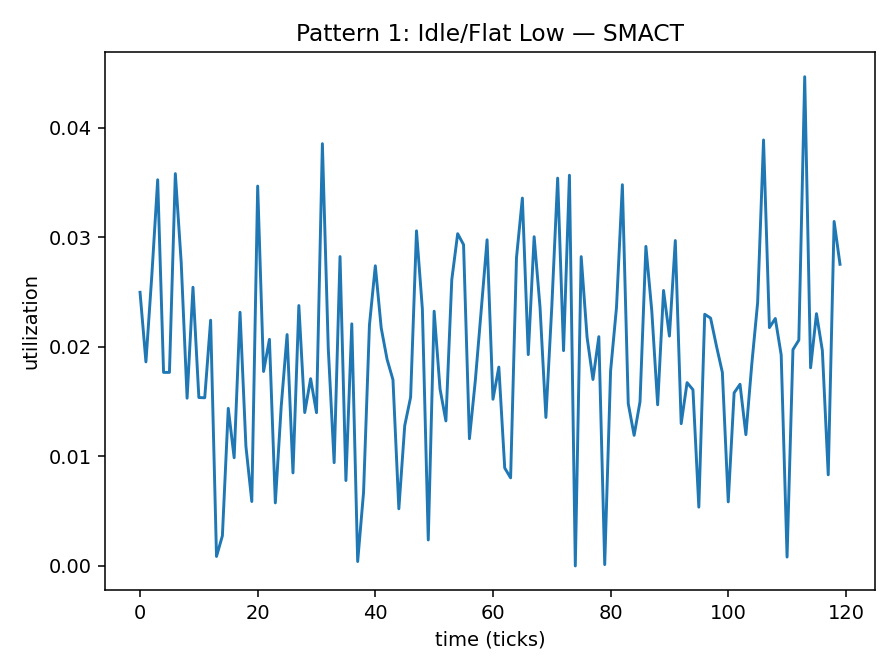
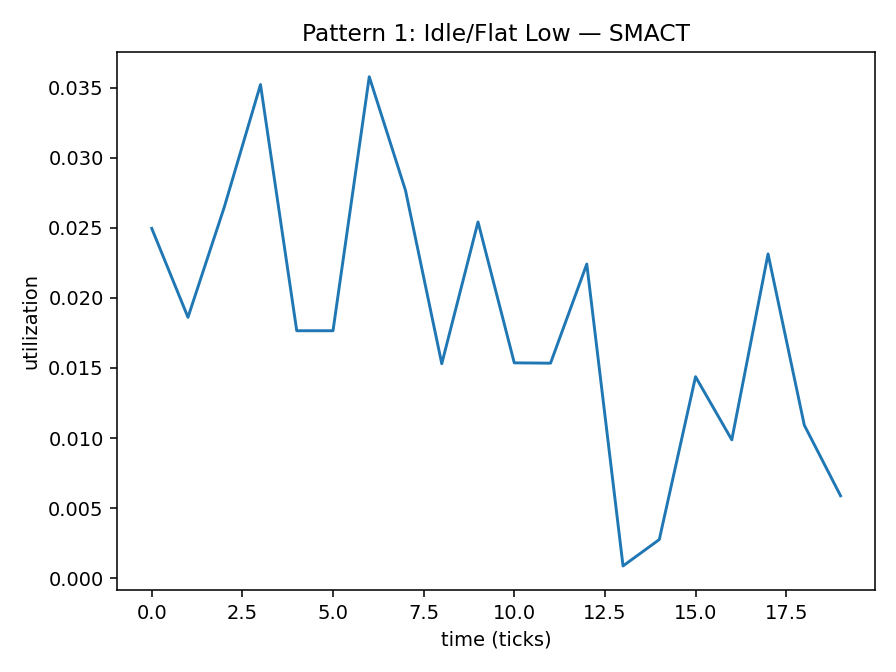
first pattern looked into with different statistical metrics

diff --git a/01-idle_OR_flat_low/main.py b/01-idle_OR_flat_low/main.py
@@ -1,9 +1,10 @@
-# pattern1_idle_flatlow.py
-import argparse, os, numpy as np, pandas as pd, matplotlib.pyplot as plt
+#!/usr/bin/env python3
+import os, argparse, numpy as np, pandas as pd, matplotlib.pyplot as plt
+import yaml
 
-def ema_last(x, alpha=0.1):
-    s = pd.Series(x).ewm(alpha=alpha, adjust=False).mean()
-    return float(s.iloc[-1])
+# ----------------- helpers -----------------
+def ema_last(x, alpha):
+    return float(pd.Series(x).ewm(alpha=alpha, adjust=False).mean().iloc[-1])
 
 def cv(x):
     x = np.asarray(x, dtype=float); m = x.mean()
@@ -13,90 +14,155 @@ def mad(x):
     x = np.asarray(x, dtype=float); med = np.median(x)
     return float(np.median(np.abs(x - med)))
 
-def stats(x, alpha):
-    x = np.asarray(x, dtype=float)
+def pctl(x, q):
+    return float(np.quantile(np.asarray(x, dtype=float), q))
+
+def lin_slope(x):
+    y = np.asarray(x, dtype=float); t = np.arange(len(y), dtype=float)
+    tc = t - t.mean(); denom = float((tc**2).sum())
+    if denom == 0.0: return 0.0
+    return float((tc * (y - y.mean())).sum() / denom)
+
+def trend_flag(x, thresh):
+    return 1 if abs(lin_slope(x)) > float(thresh) else 0
+
+def stats_series(x, alpha, slope_thresh):
     return {
-        "mean": x.mean(),
-        "median": np.median(x),
-        "p95": np.quantile(x, 0.95),
-        "p99": np.quantile(x, 0.99),
-        "ema_last": ema_last(x, alpha=alpha),
+        "mean": float(np.mean(x)),
+        "median": float(np.median(x)),
+        "p95": pctl(x, 0.95),
+        "p99": pctl(x, 0.99),
+        "ema_last": ema_last(x, alpha),
         "cv": cv(x),
         "mad": mad(x),
+        "slope": lin_slope(x),
+        "trend_flag": trend_flag(x, slope_thresh),
     }
+
+def risk_per_metric(stats, wT, wE, wB, wC):
+    T = stats["p95"]
+    E = stats["ema_last"]
+    B = stats["cv"]
+    C = float(bool(stats["trend_flag"]))
+    return {"T": T, "E": E, "B": B, "C": C, "RISK": wT*T + wE*E + wB*B + wC*C}
 
 def plot_series(t, y, title, outfile):
     plt.figure()
     plt.plot(t, y)
     plt.title(title)
-    plt.xlabel("time (ticks)")
-    plt.ylabel("utilization")
-    plt.tight_layout()
-    plt.savefig(outfile, dpi=140)
-    plt.close()
+    plt.xlabel("time (ticks)"); plt.ylabel("utilization")
+    plt.tight_layout(); plt.savefig(outfile, dpi=140); plt.close()
 
-def write_readme(path, params, smact_stats, smocc_stats, drama_stats, img_paths):
-    def row(d):
-        return f"{d['mean']:.4f} | {d['median']:.4f} | {d['p95']:.4f} | {d['p99']:.4f} | {d['ema_last']:.4f} | {d['cv']:.4f} | {d['mad']:.4f}"
+def _row(d, cols): return " | ".join(f"{d[c]:.4f}" for c in cols)
+
+def build_md(params, sS, sO, sD, rS, rO, rD, imgs):
+    cols = ["mean","median","p95","p99","ema_last","cv","mad","slope"]
     md = f"""# Pattern 1 — Idle / Flat Low
 
-**Config:** `N={params['N']}`, `NOISE={params['NOISE']}`, `ALPHA={params['ALPHA']}`
+**Config:** `N={params['N']}`, `NOISE={params['NOISE']}`, `ALPHA={params['ALPHA']:.6f}`  
+(ALPHA auto-derived = `{params['ALPHA_AUTO']}`; rule: α ≈ 2/(N+1))
 
 ## Plots
-![SMACT]({os.path.basename(img_paths['smact'])})
-![SMOCC]({os.path.basename(img_paths['smocc'])})
-![DRAMA]({os.path.basename(img_paths['drama'])})
+![SMACT]({os.path.basename(imgs['smact'])})
+![SMOCC]({os.path.basename(imgs['smocc'])})
+![DRAMA]({os.path.basename(imgs['drama'])})
 
-## Window Statistics
-Metric | mean | median | p95 | p99 | EMA_last | CV | MAD
----|---:|---:|---:|---:|---:|---:|---:
-SMACT | {row(smact_stats)}
-SMOCC | {row(smocc_stats)}
-DRAMA | {row(drama_stats)}
+## Window Statistics (per metric)
+Metric | mean | median | p95 | p99 | EMA_last | CV | MAD | slope
+---|---:|---:|---:|---:|---:|---:|---:|---:
+SMACT | {_row(sS, cols)}
+SMOCC | {_row(sO, cols)}
+DRAMA | {_row(sD, cols)}
+
+Per-metric trend flags: SMACT={sS['trend_flag']} • SMOCC={sO['trend_flag']} • DRAMA={sD['trend_flag']}
+
+## Per-Metric Risk
+Weights: wT={params['wT']}, wE={params['wE']}, wB={params['wB']}, wC={params['wC']}
+
+Metric | T (p95) | E (EMA) | B (CV) | C (trend) | RISK
+---|---:|---:|---:|---:|---:
+SMACT | {rS['T']:.4f} | {rS['E']:.4f} | {rS['B']:.4f} | {rS['C']:.1f} | {rS['RISK']:.4f}
+SMOCC | {rO['T']:.4f} | {rO['E']:.4f} | {rO['B']:.4f} | {rO['C']:.1f} | {rO['RISK']:.4f}
+DRAMA | {rD['T']:.4f} | {rD['E']:.4f} | {rD['B']:.4f} | {rD['C']:.1f} | {rD['RISK']:.4f}
 """
-    with open(path, "w", encoding="utf-8") as f:
-        f.write(md)
+    return md
 
+def write_readme(path, content, mode="write"):
+    if mode == "append" and os.path.exists(path):
+        with open(path, "a", encoding="utf-8") as f: f.write("\n\n" + content)
+    else:
+        with open(path, "w", encoding="utf-8") as f: f.write(content)
+
+# ----------------- main -----------------
 def main():
     ap = argparse.ArgumentParser()
-    ap.add_argument("--N", type=int, default=120, help="samples in window")
-    ap.add_argument("--noise", type=float, default=0.01, help="noise std around near-zero")
-    ap.add_argument("--alpha", type=float, default=0.1, help="EMA smoothing factor")
-    ap.add_argument("--seed", type=int, default=42)
-    ap.add_argument("--outdir", type=str, default=".", help="output directory")
+    ap.add_argument("--config", type=str, default="config.yaml")
     args = ap.parse_args()
 
-    np.random.seed(args.seed)
-    os.makedirs(args.outdir, exist_ok=True)
+    with open(args.config, "r", encoding="utf-8") as f:
+        cfg = yaml.safe_load(f)
 
-    t = np.arange(args.N)
-    smact = np.clip(np.random.normal(loc=0.02, scale=args.noise, size=args.N), 0, 1)
-    smocc = np.clip(np.random.normal(loc=0.01, scale=args.noise, size=args.N), 0, 1)
-    drama = np.clip(np.random.normal(loc=0.015, scale=args.noise, size=args.N), 0, 1)
+    # config
+    N = int(cfg.get("N", 120))
+    noise = float(cfg.get("noise", 0.01))
+    seed = int(cfg.get("seed", 42))
 
-    smact_s = stats(smact, args.alpha)
-    smocc_s = stats(smocc, args.alpha)
-    drama_s = stats(drama, args.alpha)
+    alpha_mode = str(cfg.get("alpha_mode", "auto")).lower()
+    alpha_cfg = float(cfg.get("alpha", 0.1))
+    if alpha_mode == "manual":
+        alpha = alpha_cfg; alpha_auto = False
+    else:
+        alpha = 2.0 / (N + 1.0); alpha_auto = True
 
-    img_smact = os.path.join(args.outdir, "pattern1_smact.png")
-    img_smocc = os.path.join(args.outdir, "pattern1_smocc.png")
-    img_drama = os.path.join(args.outdir, "pattern1_drama.png")
+    outdir = cfg.get("outdir", ".")
+    readme = cfg.get("readme", "README.md")
+    readme_mode = str(cfg.get("readme_mode", "write")).lower()
 
+    w = cfg.get("risk_weights", {}) or {}
+    wT, wE, wB, wC = float(w.get("wT", 0.5)), float(w.get("wE", 0.3)), float(w.get("wB", 0.1)), float(w.get("wC", 0.1))
+    slope_thresh = float(cfg.get("trend_slope_threshold", 0.002))
+
+    # synthetic idle data (per pattern)
+    np.random.seed(seed); os.makedirs(outdir, exist_ok=True)
+    t = np.arange(N)
+    smact = np.clip(np.random.normal(loc=0.02, scale=noise, size=N), 0, 1)
+    smocc = np.clip(np.random.normal(loc=0.01, scale=noise, size=N), 0, 1)
+    drama = np.clip(np.random.normal(loc=0.015, scale=noise, size=N), 0, 1)
+
+    # per-metric stats
+    s_smact = stats_series(smact, alpha, slope_thresh)
+    s_smocc = stats_series(smocc, alpha, slope_thresh)
+    s_drama = stats_series(drama, alpha, slope_thresh)
+
+    # per-metric risk (no mixing)
+    r_smact = risk_per_metric(s_smact, wT, wE, wB, wC)
+    r_smocc = risk_per_metric(s_smocc, wT, wE, wB, wC)
+    r_drama = risk_per_metric(s_drama, wT, wE, wB, wC)
+
+    # plots
+    img_smact = os.path.join(outdir, "pattern1_smact.png")
+    img_smocc = os.path.join(outdir, "pattern1_smocc.png")
+    img_drama = os.path.join(outdir, "pattern1_drama.png")
     plot_series(t, smact, "Pattern 1: Idle/Flat Low — SMACT", img_smact)
     plot_series(t, smocc, "Pattern 1: Idle/Flat Low — SMOCC", img_smocc)
     plot_series(t, drama, "Pattern 1: Idle/Flat Low — DRAMA", img_drama)
 
-    readme = os.path.join(args.outdir, "README.md")
-    write_readme(
-        readme,
-        {"N": args.N, "NOISE": args.noise, "ALPHA": args.alpha},
-        smact_s, smocc_s, drama_s,
-        {"smact": img_smact, "smocc": img_smocc, "drama": img_drama},
+    # README section
+    section = build_md(
+        {"N": N, "NOISE": noise, "ALPHA": alpha, "ALPHA_AUTO": alpha_auto,
+         "wT": wT, "wE": wE, "wB": wB, "wC": wC},
+        s_smact, s_smocc, s_drama,
+        r_smact, r_smocc, r_drama,
+        {"smact": img_smact, "smocc": img_smocc, "drama": img_drama}
     )
+    readme_path = os.path.join(outdir, readme)
+    write_readme(readme_path, section, mode=readme_mode)
 
-    # Also print stats to console (concise)
-    for name, s in [("SMACT", smact_s), ("SMOCC", smocc_s), ("DRAMA", drama_s)]:
-        print(name, {k: round(v, 6) for k, v in s.items()})
+    # concise console output
+    print(f"alpha = {alpha:.6f} ({'auto' if alpha_auto else 'manual'})")
+    print("Per-metric RISK:",
+          {"SMACT": round(r_smact["RISK"],6), "SMOCC": round(r_smocc["RISK"],6), "DRAMA": round(r_drama["RISK"],6)})
+    print(f"README {'appended to' if readme_mode=='append' else 'written to'}: {readme_path}")
 
 if __name__ == "__main__":
     main()

diff --git a/README.md b/README.md
@@ -1,7 +1,7 @@
 # Monitoring Patterns and Statistical Metrics
 
 Monitoring GPU hardware counters (such as **SMACT**, **SMOCC**, and **DRAMA**) over sliding windows reveals characteristic **patterns** of activity.  
-Recognizing these patterns helps assess *collocation risk* — whether placing another workload on the same GPU will cause interference.
+Recognizing these patterns helps assess *collocation risk* — whether placing another workload on the same GPU will cause dramatically harmful interference.
 
 ---
 
@@ -83,3 +83,50 @@ This allows both:
 - **Quantitative scoring** (e.g., a collocation risk metric).  
 
 ---
+
+
+## Per-Metric Trend Flags and Composite Risk
+
+We compute **all statistics per metric stream** — separately for **SMACT**, **SMOCC**, and **DRAMA** — over the window. Let the three series be x_S (SMACT), x_O (SMOCC), x_D (DRAMA).
+
+### Per-Metric Features (computed for each of: SMACT, SMOCC, DRAMA)
+- mean(x)          : overall average
+- median(x)        : robust central tendency
+- p95(x), p99(x)   : tail (bursts/spikes)
+- EMA_last(x)      : exponential moving average at window end
+- CV(x)            : coefficient of variation = std(x) / mean(x)
+- MAD(x)           : median absolute deviation
+- slope(x)         : linear-regression slope of x vs. time (least squares)
+- trend_flag(x)    : 1 if |slope(x)| > τ, else 0  (τ is a small threshold)
+
+**Notes**
+- EMA_last uses α either manually set or α ≈ 2/(N+1) when auto-derived.
+- trend_flag is per metric; a series with noticeable drift (up/down) within the window sets its own flag to 1.
+
+### Aggregating Per-Metric Features into a Single Per-GPU Score
+Define the **per-metric** components:
+- Tail per metric:      T_S = p95(x_S), T_O = p95(x_O), T_D = p95(x_D)
+- Recency per metric:   E_S = EMA_last(x_S), E_O = EMA_last(x_O), E_D = EMA_last(x_D)
+- Burstiness per metric: B_S = CV(x_S), B_O = CV(x_O), B_D = CV(x_D)
+- Trend per metric:      C_S = trend_flag(x_S), C_O = trend_flag(x_O), C_D = trend_flag(x_D)
+
+Combine to **per-GPU components** (default is a conservative “max” across metrics):
+- T = max(T_S, T_O, T_D)
+- E = max(E_S, E_O, E_D)
+- B = max(B_S, B_O, B_D)
+- C = 1 if any of {C_S, C_O, C_D} is 1, else 0
+
+(Alternative: use a weighted sum across metrics when you want to favor/penalize specific resources.)
+
+### Composite Risk (per GPU, per window)
+RISK = wT*T + wE*E + wB*B + wC*C  
+Default weights: wT=0.5, wE=0.3, wB=0.1, wC=0.1 (tunable in YAML).
+
+**Interpretation**
+- T (tail) dominates: large p95 in any metric signals bursty high load.
+- E (EMA) adds recency: what the GPU “feels like now.”
+- B (CV) penalizes instability even if averages look OK.
+- C (trend) penalizes windows with clear upward/downward drift.
+
+**Hysteresis for Decisions**
+

diff --git a/01-idle_OR_flat_low/README.md b/01-idle_OR_flat_low/README.md
@@ -1,15 +1,27 @@
 # Pattern 1 — Idle / Flat Low
 
-**Config:** `N=120`, `NOISE=0.01`, `ALPHA=0.1`
+**Config:** `N=20`, `NOISE=0.01`, `ALPHA=0.095238`  
+(ALPHA auto-derived = `True`; rule: α ≈ 2/(N+1))
 
 ## Plots
 ![SMACT](pattern1_smact.png)
 ![SMOCC](pattern1_smocc.png)
 ![DRAMA](pattern1_drama.png)
 
-## Window Statistics
-Metric | mean | median | p95 | p99 | EMA_last | CV | MAD
----|---:|---:|---:|---:|---:|---:|---:
-SMACT | 0.0193 | 0.0193 | 0.0352 | 0.0388 | 0.0215 | 0.4719 | 0.0048
-SMOCC | 0.0113 | 0.0119 | 0.0287 | 0.0364 | 0.0111 | 0.8238 | 0.0066
-DRAMA | 0.0153 | 0.0148 | 0.0298 | 0.0362 | 0.0134 | 0.5626 | 0.0064
+## Window Statistics (per metric)
+Metric | mean | median | p95 | p99 | EMA_last | CV | MAD | slope
+---|---:|---:|---:|---:|---:|---:|---:|---:
+SMACT | 0.0183 | 0.0177 | 0.0353 | 0.0357 | 0.0165 | 0.5117 | 0.0070 | -0.0010
+SMOCC | 0.0084 | 0.0074 | 0.0248 | 0.0278 | 0.0100 | 0.9639 | 0.0055 | -0.0002
+DRAMA | 0.0149 | 0.0153 | 0.0253 | 0.0255 | 0.0169 | 0.5201 | 0.0064 | 0.0003
+
+Per-metric trend flags: SMACT=0 • SMOCC=0 • DRAMA=0
+
+## Per-Metric Risk
+Weights: wT=0.5, wE=0.3, wB=0.1, wC=0.1
+
+Metric | T (p95) | E (EMA) | B (CV) | C (trend) | RISK
+---|---:|---:|---:|---:|---:
+SMACT | 0.0353 | 0.0165 | 0.5117 | 0.0 | 0.0737
+SMOCC | 0.0248 | 0.0100 | 0.9639 | 0.0 | 0.1118
+DRAMA | 0.0253 | 0.0169 | 0.5201 | 0.0 | 0.0697
